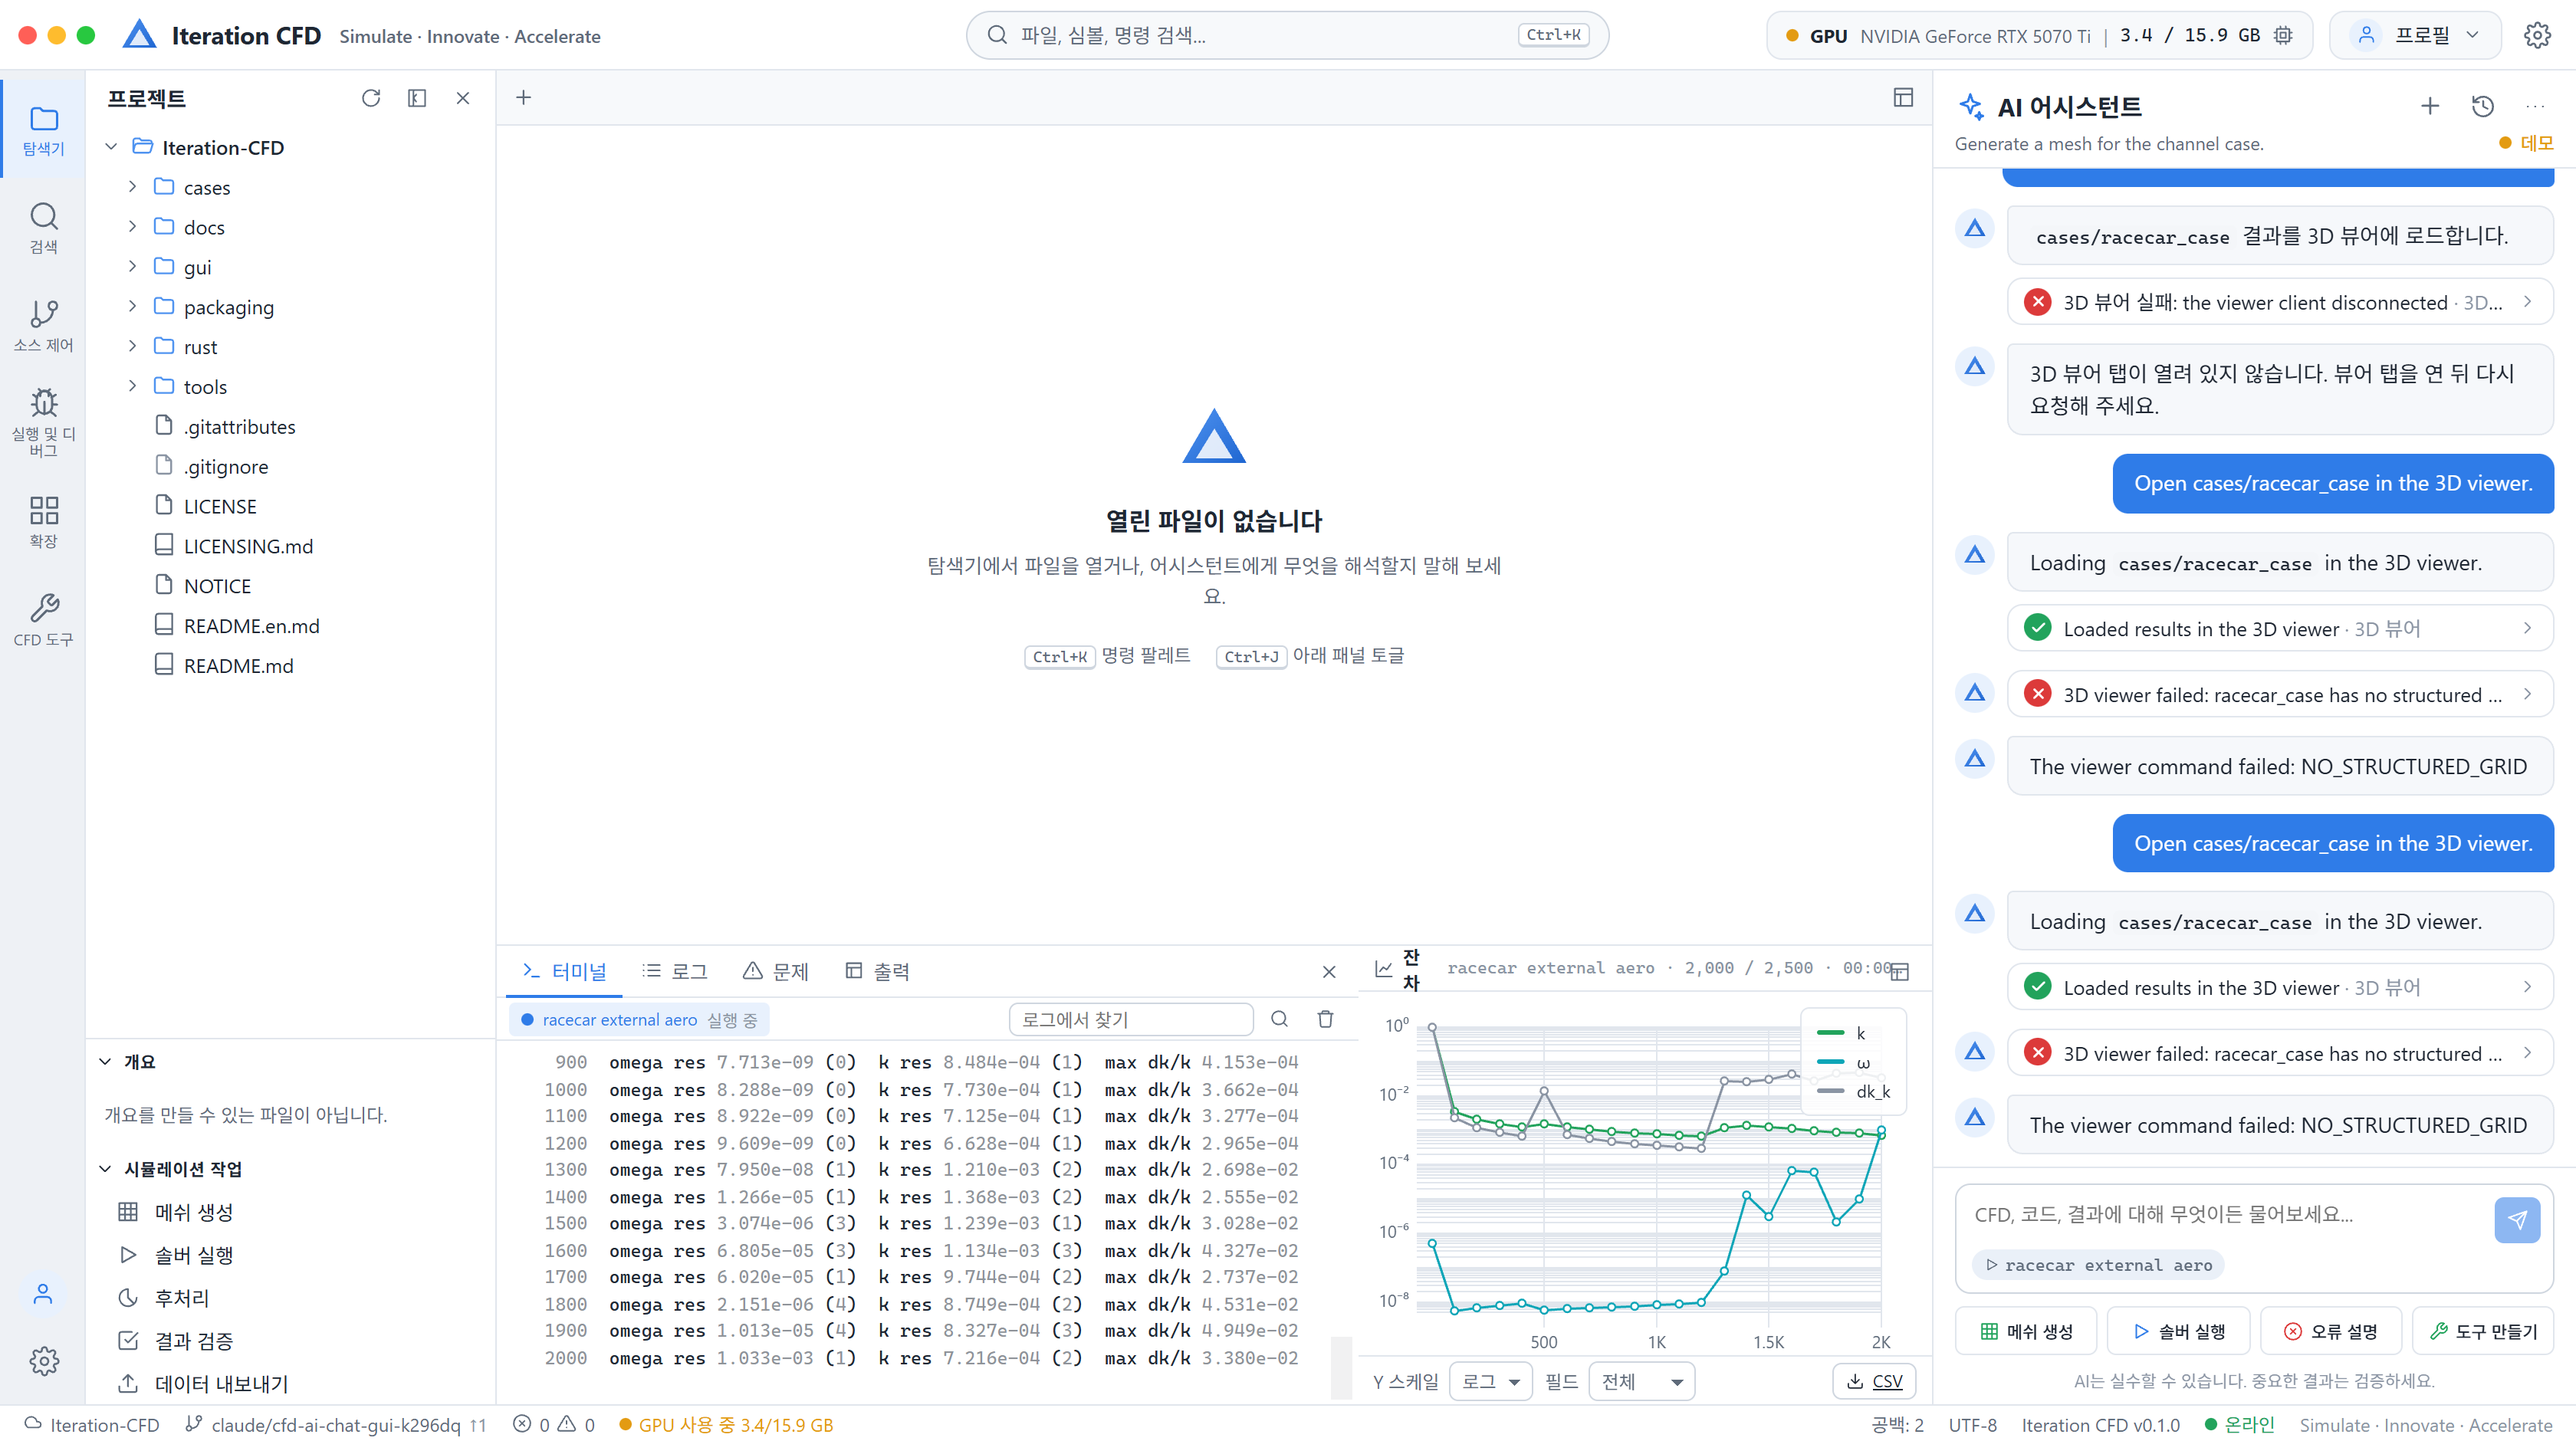
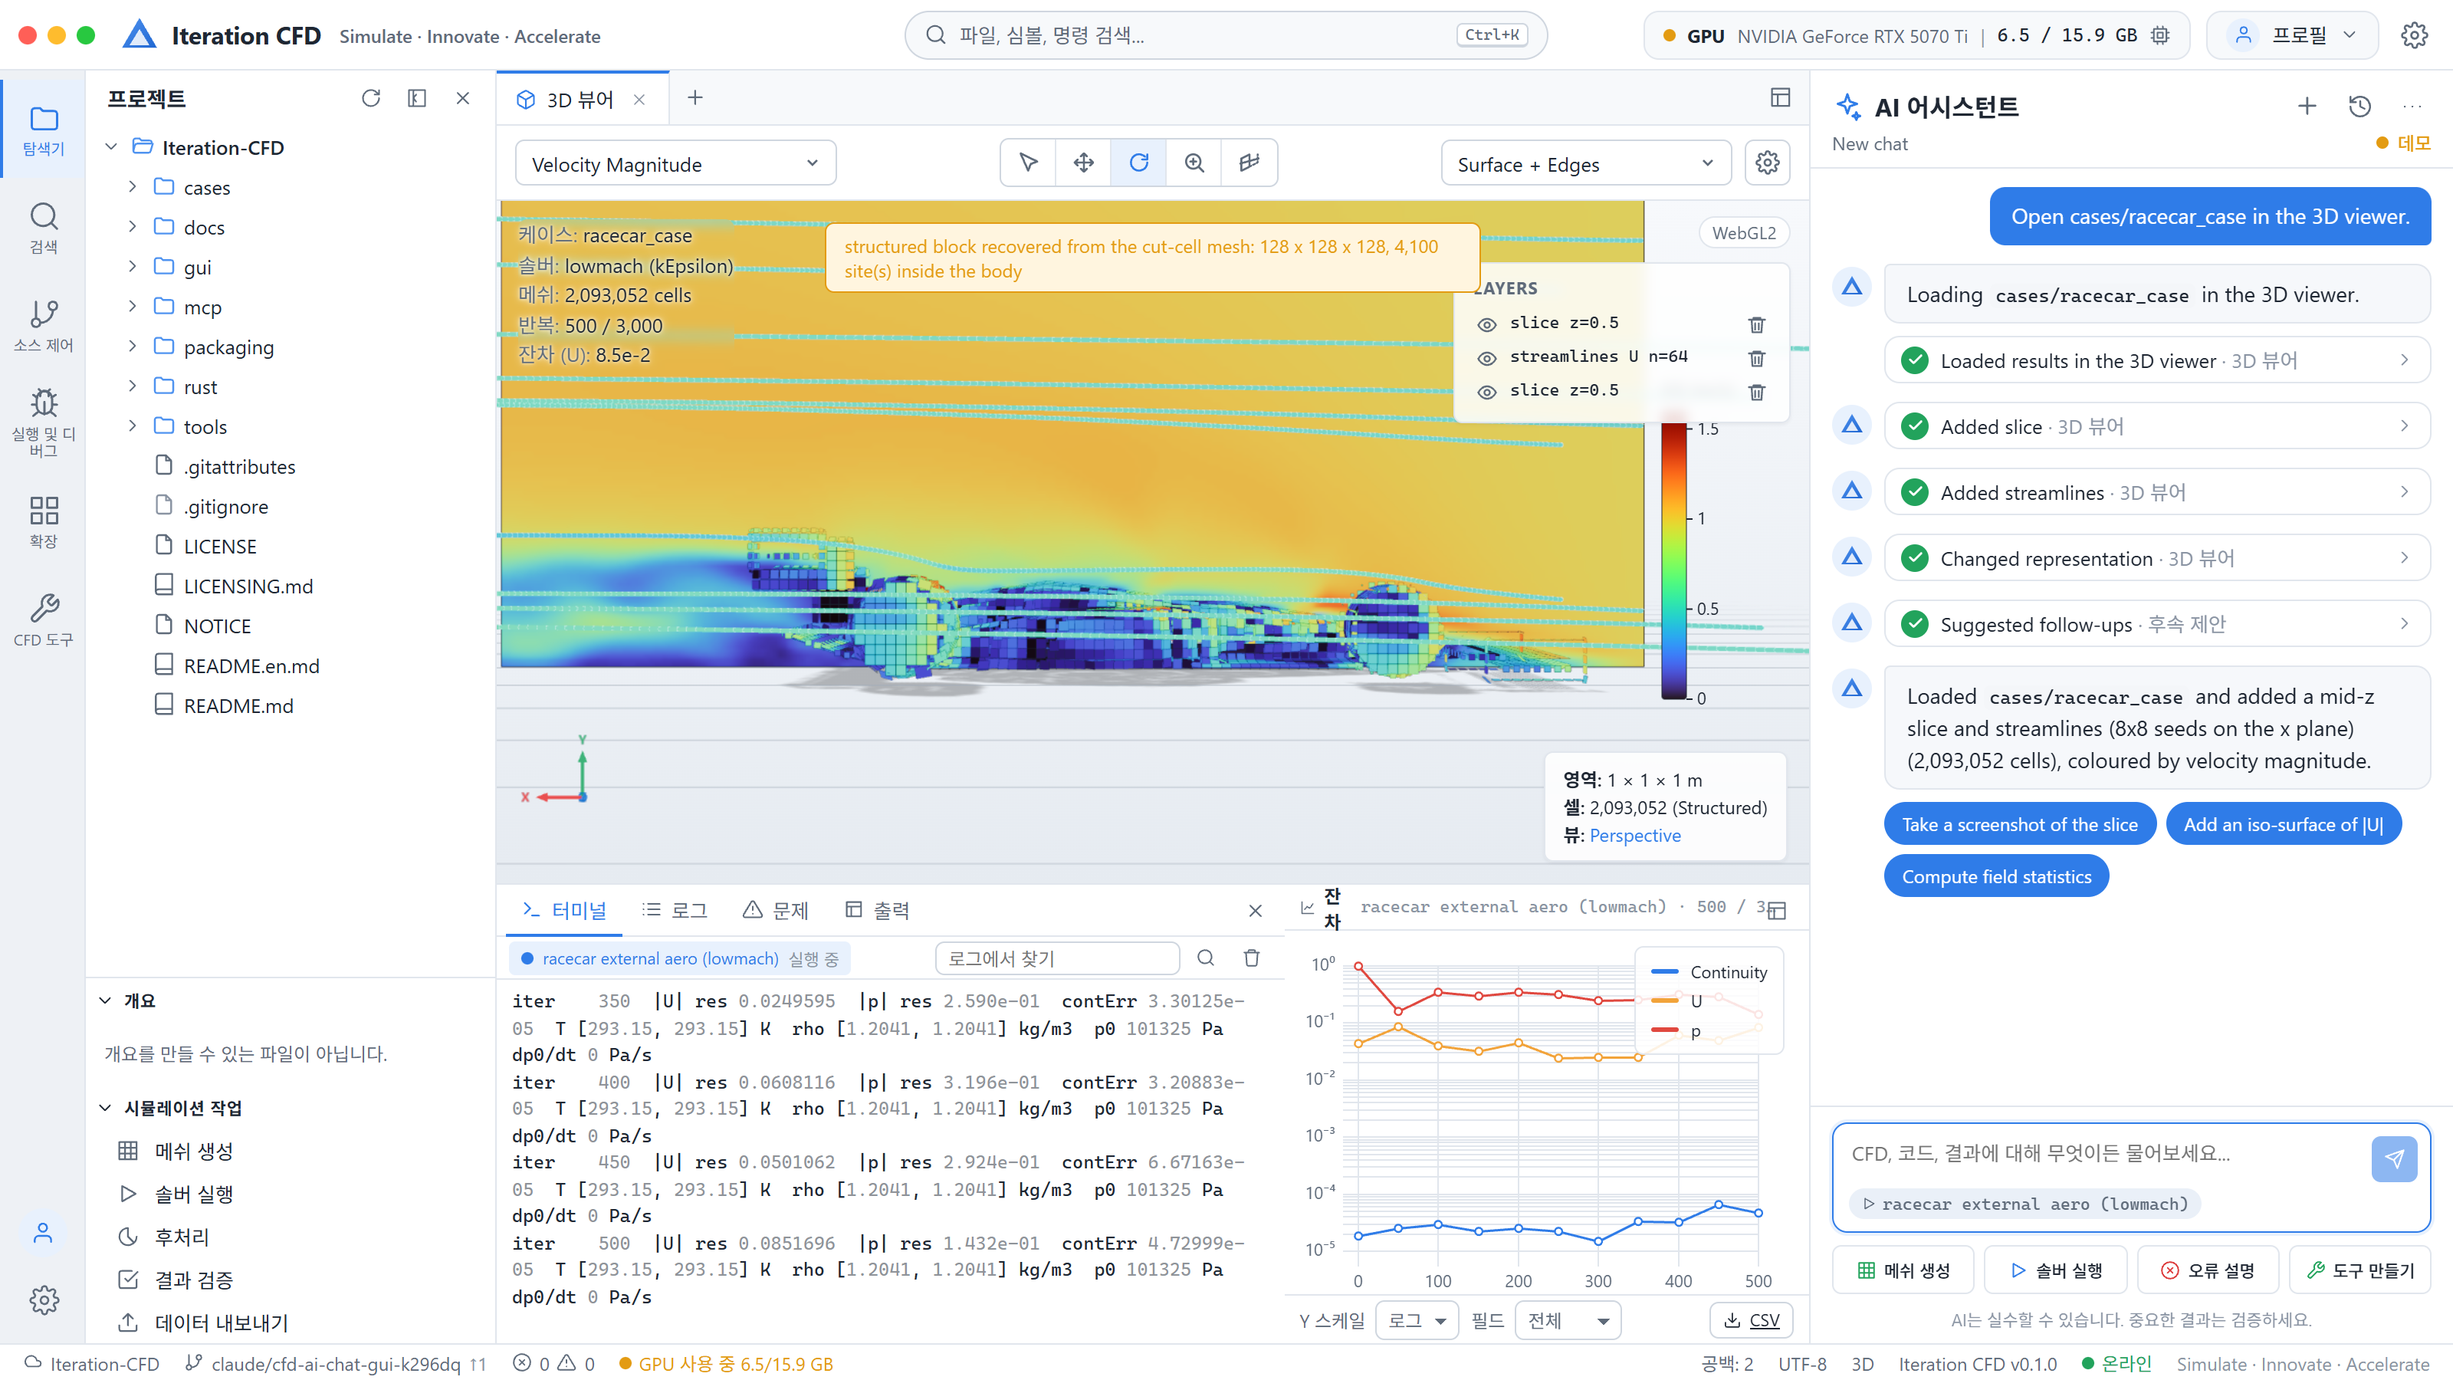
The car captures are of a solved velocity field, cut four ways
The screenshots this section promised were of a flow that had never been
computed. ofgpu-k-omega solves two turbulence equations on a velocity field it
never touches, so the streamlines came out straight and the contour came out one
flat colour: the initial field, photographed and captioned as aerodynamics. The
case is now solved with ofgpu-lowmach, which solves U and p together, and |U|
runs from 0.0007 to 3.52 m/s -- a stagnation, an acceleration and a wake.

Four frames off that one run, and the framing had two things to fight. The
tunnel is a one-metre cube and the car is 0.12 m tall in it, so a view fitted to
the domain is nine tenths empty freestream: every shot clips to a box around the
body. And the field is 1.05 m/s nearly everywhere with a spike at one corner, so
the auto range paints the whole picture one colour; the range is set by hand to
the band the flow lives in.

  car-mesh         a transverse cut, the cut-cell mesh and the field together
  car-contour      the symmetry plane down the centreline
  car-streamlines  the whole car in iso view, streamlines over it
  car-vectors      velocity vectors on a cross-section behind the front axle

And run.png is replaced. The one that shipped was taken while the viewer was
still refusing cut-cell meshes, so its assistant panel was a column of
NO_STRUCTURED_GRID errors -- a bug report, published as a product screenshot.
The new one is a live lowmach solve with the residual chart drawing three
[…]

diff --git a/src/lib/copy.ts b/src/lib/copy.ts
@@ -108,7 +108,7 @@ const en: Copy = {
       {
         n: '02',
         title: 'You watch it run',
-        body: 'An open-wheel car, 2.1 million cut cells, k-omega on an RTX 5070 Ti: 2,500 iterations in 40.7 seconds — 129 million cell-iterations a second. Residuals are drawn from the moment the solver takes the GPU, and if it diverges it stops at the iteration where it diverged and points at the line in the log that says why.',
+        body: 'An open-wheel car, 2.1 million cut cells, a low-Mach momentum solve with k-omega on an RTX 5070 Ti. Residuals are drawn from the moment the solver takes the GPU, and if it diverges it stops at the iteration where it diverged and points at the line in the log that says why.',
         shot: 'run.png',
         alt: 'The race-car case running — streaming solver log and live residual chart, GPU at 3.4 of 15.9 GB',
       },
@@ -124,25 +124,25 @@ const en: Copy = {
   cutaway: {
     kicker: 'Cut open',
     title: 'The same run,\ncut four ways.',
-    lead: 'A 2.1-million-cell cut-cell mesh is a box from the outside. So cut it open: the mesh wrapped on the body, the symmetry plane, the streamlines over it, and the vectors on a cross-section behind the front axle. Four captures, one solved case, nothing done to them that the viewer did not draw.',
+    lead: 'A 2.1-million-cell cut-cell mesh is a box from the outside. So cut it open: the mesh and the field on one transverse cut, the symmetry plane, the whole car in iso view under its streamlines, and the vectors on a cross-section behind the front axle. Four captures, one solved case, nothing done to them that the viewer did not draw.',
     items: [
       {
-        title: 'The cut-cell mesh on the body',
-        body: 'A 128-cube block with the car carved out of it: 2,095,989 cells, of which 2,731 are cut by the surface and 1,163 sites fall inside the body. The wireframe is the mesh the solver actually integrated, not a rendering of the STL.',
+        title: 'The mesh and the field, one cut',
+        body: 'A transverse cut through the middle of the car, with the cut-cell mesh and the velocity on the same screen. The block is 128 cubed and the body is carved out of it: 2,093,052 cells, 6,224 of them cut by the surface, 4,100 lattice sites left inside. The edges are the mesh the solver integrated, not a rendering of the STL.',
         shot: 'car-mesh.png',
-        alt: 'The cut-cell mesh around the car body, drawn as edges',
+        alt: 'A transverse cut through the car showing the cut-cell mesh and the velocity field together',
       },
       {
         title: 'Contour on the symmetry plane',
-        body: 'Velocity magnitude on the z-mid plane. The stagnation point on the nose, the acceleration over the airbox, and the low-momentum pocket the rear wing sits in are all one field, read straight off the cells.',
+        body: 'Velocity magnitude down the centreline of the car. The stagnation ahead of the nose, the acceleration over the body, and the slow pocket left behind it are one field, read straight off the cells.',
         shot: 'car-contour.png',
         alt: 'Velocity-magnitude contour on the car symmetry plane',
       },
       {
-        title: 'Streamlines around the body',
-        body: 'Seeded on a grid at the inlet and integrated forward through the cut cells. Where they wrap the wheels and roll up behind the rear tyres is where the drag is.',
+        title: 'The whole car, in iso view',
+        body: 'Streamlines seeded on a grid just ahead of the nose and integrated forward through the cut cells, over the entire body. Where they wrap the wheels and roll up behind them is where the drag is.',
         shot: 'car-streamlines.png',
-        alt: 'Streamlines wrapping the car body and rolling up behind the wheels',
+        alt: 'The whole car in isometric view with streamlines passing over it',
       },
       {
         title: 'Velocity vectors on a cross-section',
@@ -309,7 +309,7 @@ const ko: Copy = {
       {
         n: '02',
         title: '계산되는 과정을 봅니다',
-        body: '오픈휠 경주차, 컷셀 210만 개, k-omega 난류 모델. RTX 5070 Ti에서 2,500회 반복에 38.4초, 초당 1억 3,700만 셀-반복입니다. 솔버가 GPU를 잡는 순간부터 잔차 그래프가 실시간으로 그려지고, 해가 발산하면 그 반복에서 멈춘 뒤 원인이 되는 로그 줄을 짚어 줍니다.',
+        body: '오픈휠 경주차, 컷셀 210만 개, k-omega 난류 모델을 얹은 저마하 운동량 해석을 RTX 5070 Ti에서 돌립니다. 솔버가 GPU를 잡는 순간부터 잔차 그래프가 실시간으로 그려지고, 해가 발산하면 그 반복에서 멈춘 뒤 원인이 되는 로그 줄을 짚어 줍니다.',
         shot: 'run.png',
         alt: '경주차 케이스 계산 중 — 솔버 로그와 실시간 잔차 그래프, GPU 15.9 GB 중 3.4 GB 사용',
       },
@@ -325,25 +325,25 @@ const ko: Copy = {
   cutaway: {
     kicker: '잘라 보기',
     title: '같은 계산 결과를,\n네 가지로 잘랐습니다.',
-    lead: '210만 개짜리 컷셀 격자는 바깥에서 보면 상자 하나일 뿐입니다. 그래서 잘랐습니다. 차체를 감싼 격자, 대칭면의 속도 분포, 차체를 지나는 유선, 앞바퀴 뒤 단면의 속도 벡터 — 모두 같은 한 번의 계산에서 나온 화면이고, 뷰어가 그린 그대로입니다.',
+    lead: '210만 개짜리 컷셀 격자는 바깥에서 보면 상자 하나일 뿐입니다. 그래서 잘랐습니다. 횡단면에 격자와 유동을 함께 올린 화면, 대칭면의 속도 분포, iso 뷰로 본 차량 전체와 그 위의 유선, 앞바퀴 뒤 단면의 속도 벡터 — 모두 같은 한 번의 계산에서 나온 화면이고, 뷰어가 그린 그대로입니다.',
     items: [
       {
-        title: '차체를 감싼 컷셀 격자',
-        body: '한 변 128개짜리 정육면체 격자에서 차체를 파낸 것입니다. 셀 2,095,989개 가운데 2,731개가 차체 표면에 잘렸고, 1,163개 자리는 차체 안쪽이라 셀이 없습니다. 화면의 격자선은 솔버가 실제로 계산한 격자이며, STL 형상을 그린 것이 아닙니다.',
+        title: '격자와 유동을 한 화면에',
+        body: '차량을 가운데에서 횡으로 자르고, 컷셀 격자와 속도장을 같은 화면에 올렸습니다. 한 변 128개짜리 정육면체 격자에서 차체를 파낸 것으로, 셀 2,093,052개 가운데 6,224개가 차체 표면에 잘렸고 4,100개 자리는 차체 안쪽이라 셀이 없습니다. 화면의 격자선은 솔버가 실제로 계산한 격자이며, STL 형상을 그린 것이 아닙니다.',
         shot: 'car-mesh.png',
-        alt: '차체 둘레의 컷셀 격자를 선으로 그린 화면',
+        alt: '차량을 횡으로 자른 단면에 컷셀 격자와 속도장을 함께 그린 화면',
       },
       {
         title: '대칭면 속도 분포',
-        body: '차체 한가운데를 세로로 자른 면의 속도 크기입니다. 노즈 앞의 정체 영역, 차체 위를 지나며 빨라지는 흐름, 뒤쪽에 남는 느린 영역이 한 장에 함께 보입니다. 셀 값을 그대로 색으로 옮긴 것입니다.',
+        body: '차량 중심선을 따라 세로로 자른 면의 속도 크기입니다. 노즈 앞의 정체 영역, 차체 위를 지나며 빨라지는 흐름, 뒤쪽에 남는 느린 영역이 한 장에 함께 보입니다. 셀 값을 그대로 색으로 옮긴 것입니다.',
         shot: 'car-contour.png',
         alt: '경주차 대칭면의 속도 분포',
       },
       {
-        title: '차체를 지나는 유선',
-        body: '입구 면에 시작점을 격자로 배치하고 흐름을 따라 적분한 선입니다. 선이 바퀴를 감고 뒤쪽에서 말려 올라가는 자리가 곧 항력이 생기는 자리입니다.',
+        title: '차량 전체, iso 뷰',
+        body: '노즈 바로 앞에 시작점을 격자로 배치하고 흐름을 따라 적분한 선을 차체 전체에 걸쳐 그렸습니다. 선이 바퀴를 감고 그 뒤에서 말려 올라가는 자리가 곧 항력이 생기는 자리입니다.',
         shot: 'car-streamlines.png',
-        alt: '차체를 감고 바퀴 뒤에서 말려 올라가는 유선',
+        alt: '차량 전체를 iso 뷰로 보고 그 위를 지나는 유선',
       },
       {
         title: '단면 속도 벡터',
